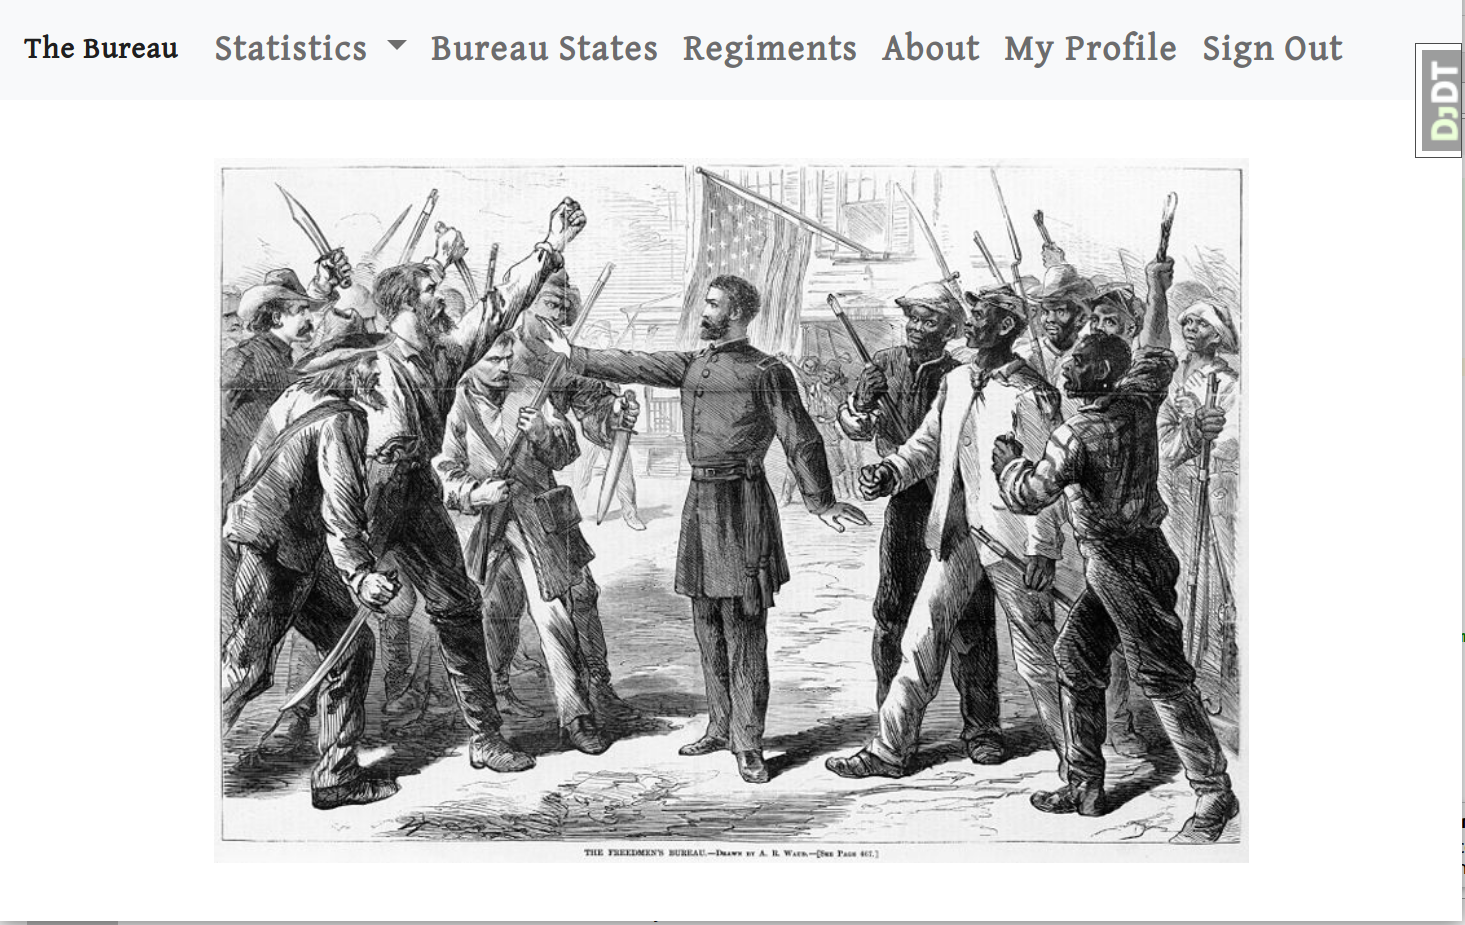
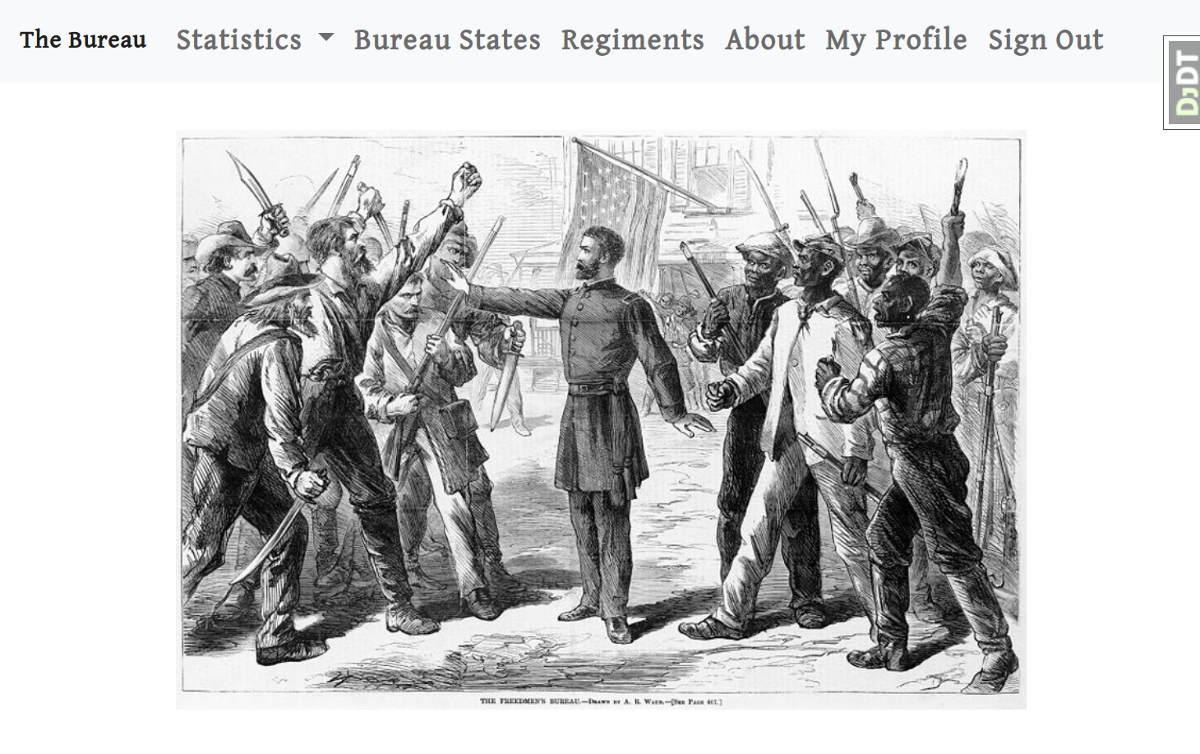
Crop and scale screenshot

diff --git a/README.rst b/README.rst
@@ -22,10 +22,9 @@ Keep track of personnel of Bureau of Refugees, Freedmen and Abandoned Lands, wit
 
 :License: Apache Software License 2.0
 
-
 .. image:: screenshots/home.png
+   :scale: 80
    :alt: Screenshot of main Bureau page
-
 
 Basic Commands
 --------------
